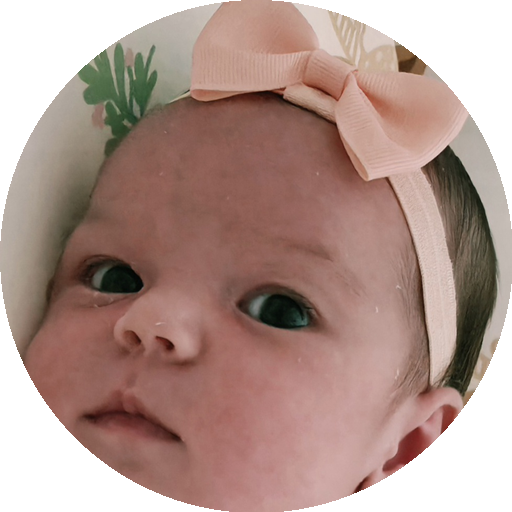
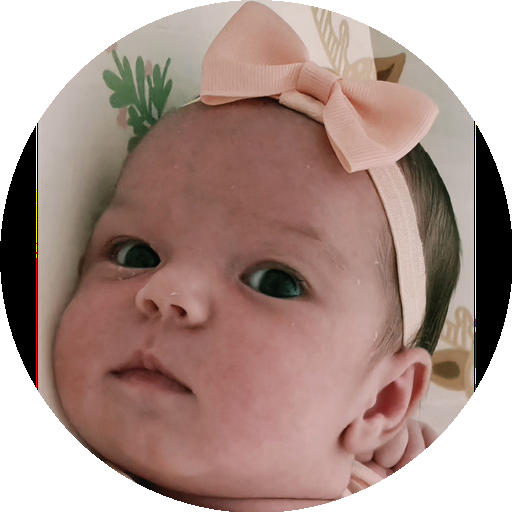
fix: pad Sofia photo to prevent chin from being cut off

diff --git a/index.html b/index.html
@@ -2,8 +2,8 @@
 <html lang="pt">
   <head>
     <meta charset="UTF-8" />
-    <link rel="icon" type="image/png" href="/favicon.png?v=2" />
-    <link rel="apple-touch-icon" href="/apple-touch-icon.png?v=2" />
+    <link rel="icon" type="image/png" href="/favicon.png?v=3" />
+    <link rel="apple-touch-icon" href="/apple-touch-icon.png?v=3" />
     <link rel="manifest" href="/manifest.json" />
     <meta name="mobile-web-app-capable" content="yes" />
     <meta name="apple-mobile-web-app-capable" content="yes" />

diff --git a/src/components/Layout.jsx b/src/components/Layout.jsx
@@ -24,7 +24,7 @@ const Layout = ({ children }) => {
           <Link to="/perfil" className="navbar-brand brand-link">
             <div className="avatar-ring">
               <div className="avatar">
-                <img src="/favicon.png?v=2" alt="Sofia" />
+                <img src="/favicon.png?v=3" alt="Sofia" />
               </div>
               <span className="online-pulse-dot" title="Sofia Morais Barroso" />
             </div>
